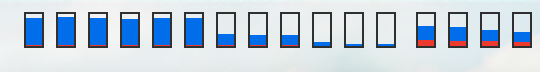
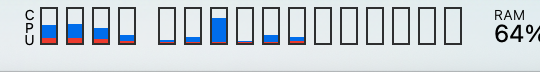
Match the core meter to MenuMeters and show efficiency cores first
Boxes are now 9 pt wide and 19 pt tall, with 4 pt gaps inside a cluster
and 11 pt between clusters. The taller frame applies only while core
boxes are shown, so other bar charts keep their size.

Efficiency cores now come first, matching the CPU numbering on this Mac.

When boxes reach their minimum width, the gaps now give up the remaining
space, which keeps very high core counts within the maximum width.

Changed region(s): [[0.0296, 0.0833, 1.0, 0.6667], [0.0, 0.9722, 1.0, 1.0]]

diff --git a/Kit/Widgets/BarChart.swift b/Kit/Widgets/BarChart.swift
@@ -28,9 +28,9 @@ public class BarChart: WidgetWrapper {
     private var coreBoxesSupported: Bool = false
     private var coreBoxesState: Bool = true
     private var coreStackState: Bool = true
-    private var coreBarWidth: Int = 10
-    private var coreGap: Int = 6
-    private var coreClusterGap: Int = 4
+    private var coreBarWidth: Int = 9
+    private var coreGap: Int = 4
+    private var coreClusterGap: Int = 7
     private var coreMaxWidth: Int = 300
     private var _coreGroups: [Int]? = nil
     internal var renderScale: CGFloat? = nil
@@ -251,8 +251,35 @@ public class BarChart: WidgetWrapper {
         self.setWidth(width)
     }
     
+    private var coreScale: CGFloat {
+        self.renderScale ?? self.window?.backingScaleFactor ?? NSScreen.main?.backingScaleFactor ?? 1
+    }
+    
+    // Core boxes stand taller than the other widgets, so only they get a taller frame.
+    private func updateCoreFrame() {
+        guard Thread.isMainThread else {
+            DispatchQueue.main.async { [weak self] in self?.updateCoreFrame() }
+            return
+        }
+        
+        let barHeight = Constants.Widget.height
+        var target = self.frame
+        if self.queue.sync(execute: { self._coreGroups }) != nil {
+            let scale = max(self.coreScale, 1)
+            target.size.height = CoreBoxLayout.boxHeight
+            target.origin.y = (((barHeight - CoreBoxLayout.boxHeight) / 2) * scale).rounded() / scale
+        } else {
+            target.size.height = barHeight - (2*Constants.Widget.margin.y)
+            target.origin.y = Constants.Widget.margin.y
+        }
+        
+        if target != self.frame {
+            self.frame = target
+        }
+    }
+    
     private func drawCoreBoxes(_ value: [[ColorValue]], groups: [Int], colorZones: colorZones) {
-        let scale = self.renderScale ?? self.window?.backingScaleFactor ?? NSScreen.main?.backingScaleFactor ?? 1
+        let scale = self.coreScale
         let dark = NSAppearance.currentDrawing().bestMatch(from: [.darkAqua, .aqua]) == .darkAqua
         var origin: CGFloat = 0
         
@@ -321,6 +348,7 @@ public class BarChart: WidgetWrapper {
     public override func viewDidChangeBackingProperties() {
         super.viewDidChangeBackingProperties()
         if self.coreBoxesEnabled {
+            self.updateCoreFrame()
             self.redraw()
         }
     }
@@ -332,6 +360,7 @@ public class BarChart: WidgetWrapper {
             return true
         }
         if updated {
+            self.updateCoreFrame()
             self.redraw()
         }
     }
@@ -419,10 +448,10 @@ public class BarChart: WidgetWrapper {
                     action: #selector(self.changeCoreBarWidth), values: [4, 5, 6, 7, 8, 9, 10, 12], selected: self.coreBarWidth
                 )),
                 PreferencesRow(localizedString("Box gap"), component: self.coreSizeView(
-                    action: #selector(self.changeCoreGap), values: [1, 2, 3, 4, 5, 6, 8], selected: self.coreGap
+                    action: #selector(self.changeCoreGap), values: [1, 2, 3, 4, 5, 6, 7, 8], selected: self.coreGap
                 )),
                 PreferencesRow(localizedString("Cluster gap"), component: self.coreSizeView(
-                    action: #selector(self.changeCoreClusterGap), values: [0, 2, 4, 6, 8, 10], selected: self.coreClusterGap
+                    action: #selector(self.changeCoreClusterGap), values: [0, 2, 4, 6, 7, 8, 10], selected: self.coreClusterGap
                 )),
                 PreferencesRow(localizedString("Maximum width"), component: self.coreSizeView(
                     action: #selector(self.changeCoreMaxWidth), values: [120, 160, 200, 250, 300, 400, 500], selected: self.coreMaxWidth

diff --git a/Tests/CoreBoxLayout.swift b/Tests/CoreBoxLayout.swift
@@ -7,16 +7,16 @@ import XCTest
 @testable import Kit
 
 class CoreBoxLayoutTests: XCTestCase {
-    private func layout(_ groups: [Int], bar: CGFloat = 10, gap: CGFloat = 6, cluster: CGFloat = 4, max: CGFloat = 300, scale: CGFloat = 2) -> CoreBoxLayout {
+    private func layout(_ groups: [Int], bar: CGFloat = 9, gap: CGFloat = 4, cluster: CGFloat = 7, max: CGFloat = 300, scale: CGFloat = 2) -> CoreBoxLayout {
         CoreBoxLayout(groups: groups, barWidth: bar, gap: gap, clusterGap: cluster, maxWidth: max, height: 18, scale: scale)
     }
 
     func testDefaultsForThisMac() {
-        let l = layout([12, 4])
+        let l = layout([4, 12])
         XCTAssertEqual(l.boxes.count, 16)
-        XCTAssertEqual(l.width, 254)
-        XCTAssertEqual(l.boxes[1].minX - l.boxes[0].minX, 16)
-        XCTAssertEqual(l.boxes[12].minX - l.boxes[11].minX, 20)
+        XCTAssertEqual(l.width, 211)
+        XCTAssertEqual(l.boxes[1].minX - l.boxes[0].minX, 13)
+        XCTAssertEqual(l.boxes[4].minX - l.boxes[3].minX, 20)
     }
 
     func testEmptyAndSingle() {
@@ -24,7 +24,7 @@ class CoreBoxLayoutTests: XCTestCase {
         XCTAssertEqual(layout([0]).boxes.count, 0)
         let one = layout([1])
         XCTAssertEqual(one.boxes.count, 1)
-        XCTAssertEqual(one.width, 10)
+        XCTAssertEqual(one.width, 9)
     }
 
     func testEveryCoreCountStaysSeparateAndOrdered() {
@@ -91,6 +91,29 @@ class CoreBoxLayoutTests: XCTestCase {
         }
         NSGraphicsContext.restoreGraphicsState()
         return rep
+    }
+    
+    func testCoreBoxesAreTallerOnlyWhileShown() {
+        let chart = BarChart(title: "CoreBoxRenderTest", config: ["Core boxes": true])
+        chart.renderScale = 2
+        let plain = chart.frame
+        
+        chart.setCoreGroups([1, 1])
+        XCTAssertEqual(chart.frame.height, CoreBoxLayout.boxHeight)
+        XCTAssertEqual(chart.frame.midY, plain.midY, "stays centered")
+        
+        chart.setCoreGroups(nil)
+        XCTAssertEqual(chart.frame, plain)
+    }
+    
+    func testCoreFrameLandsOnDevicePixels() {
+        for scale: CGFloat in [1, 2, 3] {
+            let chart = BarChart(title: "CoreBoxRenderTest", config: ["Core boxes": true])
+            chart.renderScale = scale
+            chart.setCoreGroups([1, 1])
+            let y = chart.frame.origin.y * scale
+            XCTAssertEqual(y.rounded(), y, accuracy: 0.0001)
+        }
     }
     
     func testOutlinesAreCrispAtOneAndTwoTimes() {

diff --git a/Kit/Widgets/CoreBoxLayout.swift b/Kit/Widgets/CoreBoxLayout.swift
@@ -8,6 +8,7 @@
 import Foundation
 
 public struct CoreBoxLayout {
+    public static let boxHeight: CGFloat = 19
     public static let minimumBarWidth: CGFloat = 3
     public static let minimumGap: CGFloat = 1
 
@@ -46,6 +47,13 @@ public struct CoreBoxLayout {
             bar = max(snapDown(bar * ratio), Self.minimumBarWidth)
             space = max(snapDown(space * ratio), Self.minimumGap)
             extra = max(snapDown(extra * ratio), 0)
+
+            // Boxes stopped at their minimum, so the gaps have to give up the rest.
+            let used = CGFloat(count) * bar + gaps * space + clusterGaps * extra
+            if used > maxWidth && gaps > 0 {
+                let room = maxWidth - CGFloat(count) * bar - clusterGaps * extra
+                space = max(snapDown(room / gaps), Self.minimumGap)
+            }
 
             // Rounding down can leave room to spare, so give it back to the boxes.
             let step = 1 / pixels

diff --git a/Modules/CPU/main.swift b/Modules/CPU/main.swift
@@ -276,7 +276,7 @@ public class CPU: Module {
     /// Per-core values ordered by cluster, with the size of each cluster.
     private func coreBoxValues(_ value: CPU_Load, cores: [core_s], widget: BarChart) -> ([[ColorValue]], [Int]) {
         let count = value.usagePerCore.count
-        let rank: (core_s) -> Int = { $0.type == .super ? 0 : $0.type == .efficiency ? 2 : 1 }
+        let rank: (core_s) -> Int = { $0.type == .efficiency ? 0 : $0.type == .super ? 2 : 1 }
         
         var order = Array(0..<count)
         var groups = [count]

diff --git a/README.md b/README.md
@@ -11,8 +11,8 @@ Gaugebar is a fork of [Stats](https://github.com/exelban/stats) by Serhiy Mytrov
 ### Per-core meter
 Each core gets its own outlined box, so every core stays identifiable even at 0%.
 
-- Boxes fill from the bottom, with system load under user load.
-- Cores are ordered by cluster, with a larger gap between clusters.
+- Boxes are 19 points tall and fill from the bottom, with system load under user load.
+- Efficiency cores come first, then performance cores, with a larger gap between clusters.
 - The outline follows the menu bar's appearance, so it matches the menu bar text.
 - On Macs with many cores, boxes shrink to fit the maximum width, down to 3 points wide with 1 point gaps.
 
@@ -22,12 +22,12 @@ The CPU bar chart with per-core usage is the default widget. Open the settings f
 |---|---|
 | Separate core boxes | On |
 | Stack system and user | On. Turn it off to use the widget's **Color** option instead |
-| Box width | 10 pt |
-| Box gap | 6 pt |
-| Cluster gap | 4 pt, added to the box gap |
+| Box width | 9 pt |
+| Box gap | 4 pt |
+| Cluster gap | 7 pt, added to the box gap |
 | Maximum width | 300 pt |
 
-The defaults take about 254 points for 16 cores. If that is too much menu bar space, 6 pt boxes with 3 pt gaps take about 145 points.
+The defaults take about 211 points for 16 cores. If that is too much menu bar space, 6 pt boxes with 3 pt gaps take about 148 points.
 
 The **Cluster** color keeps cluster coloring, using a darker shade for system load.
 
